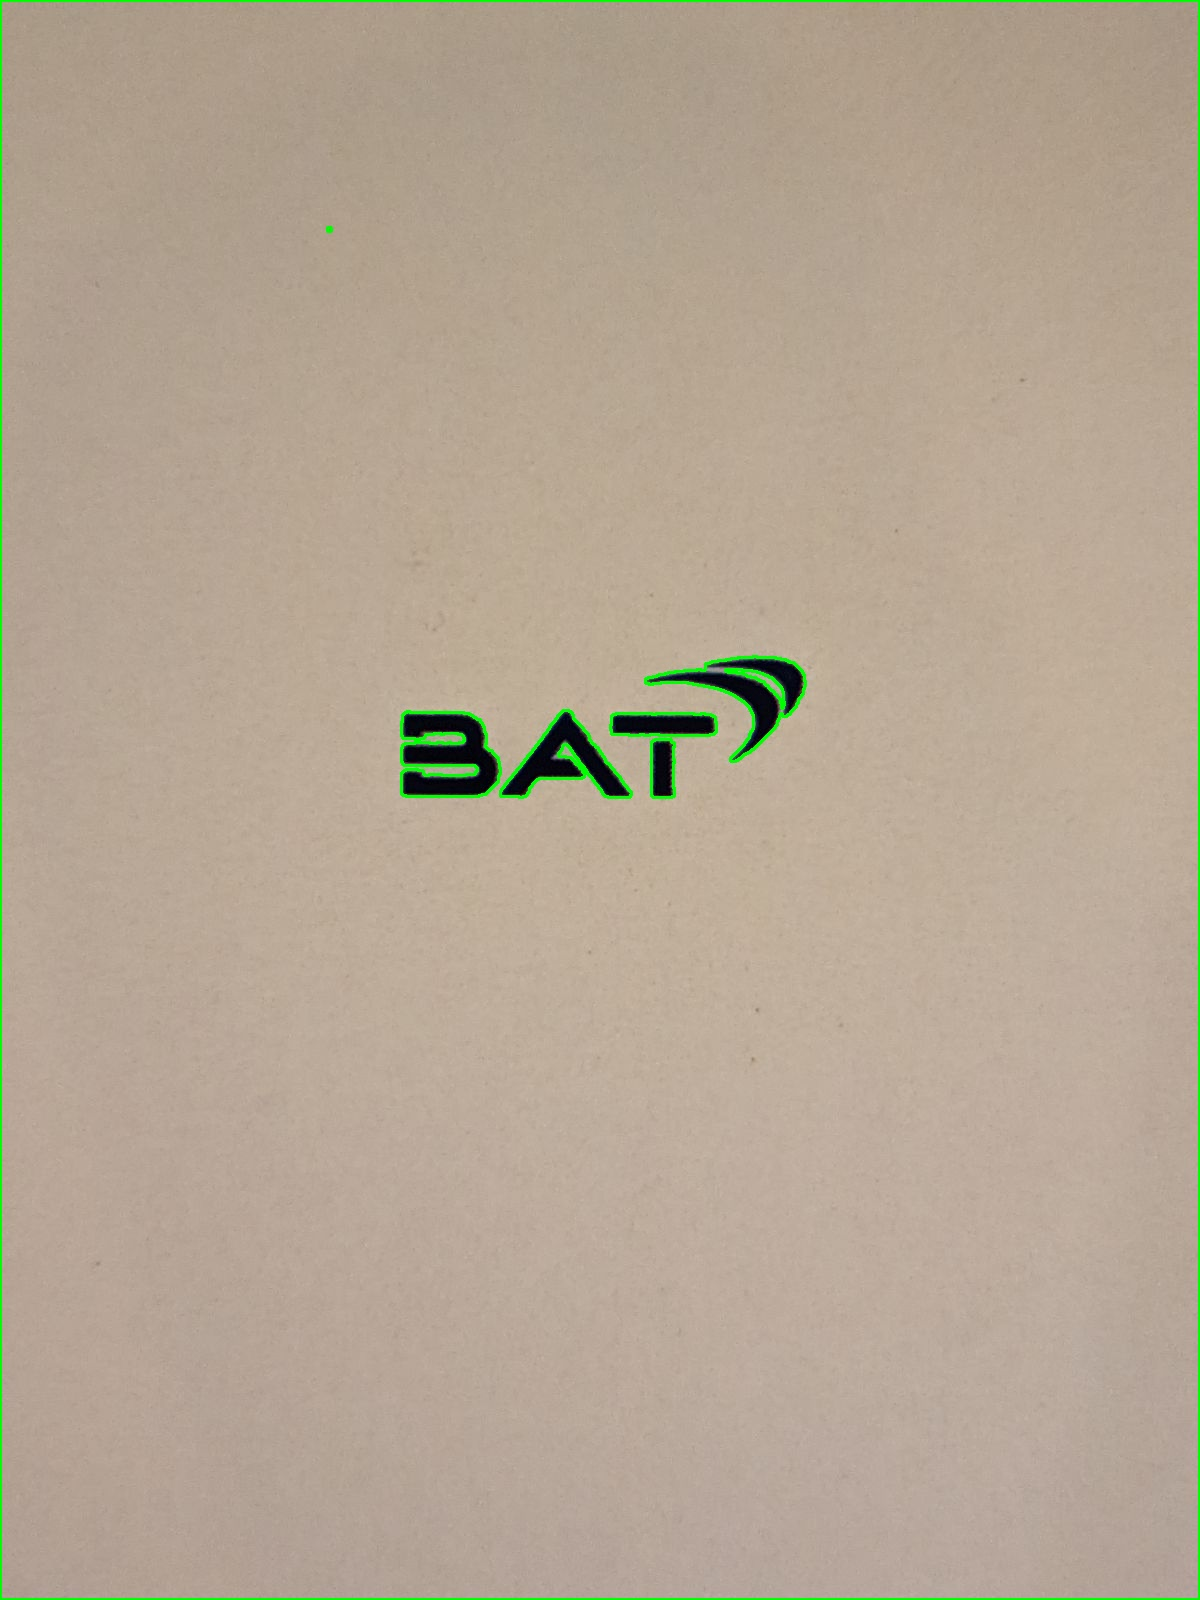
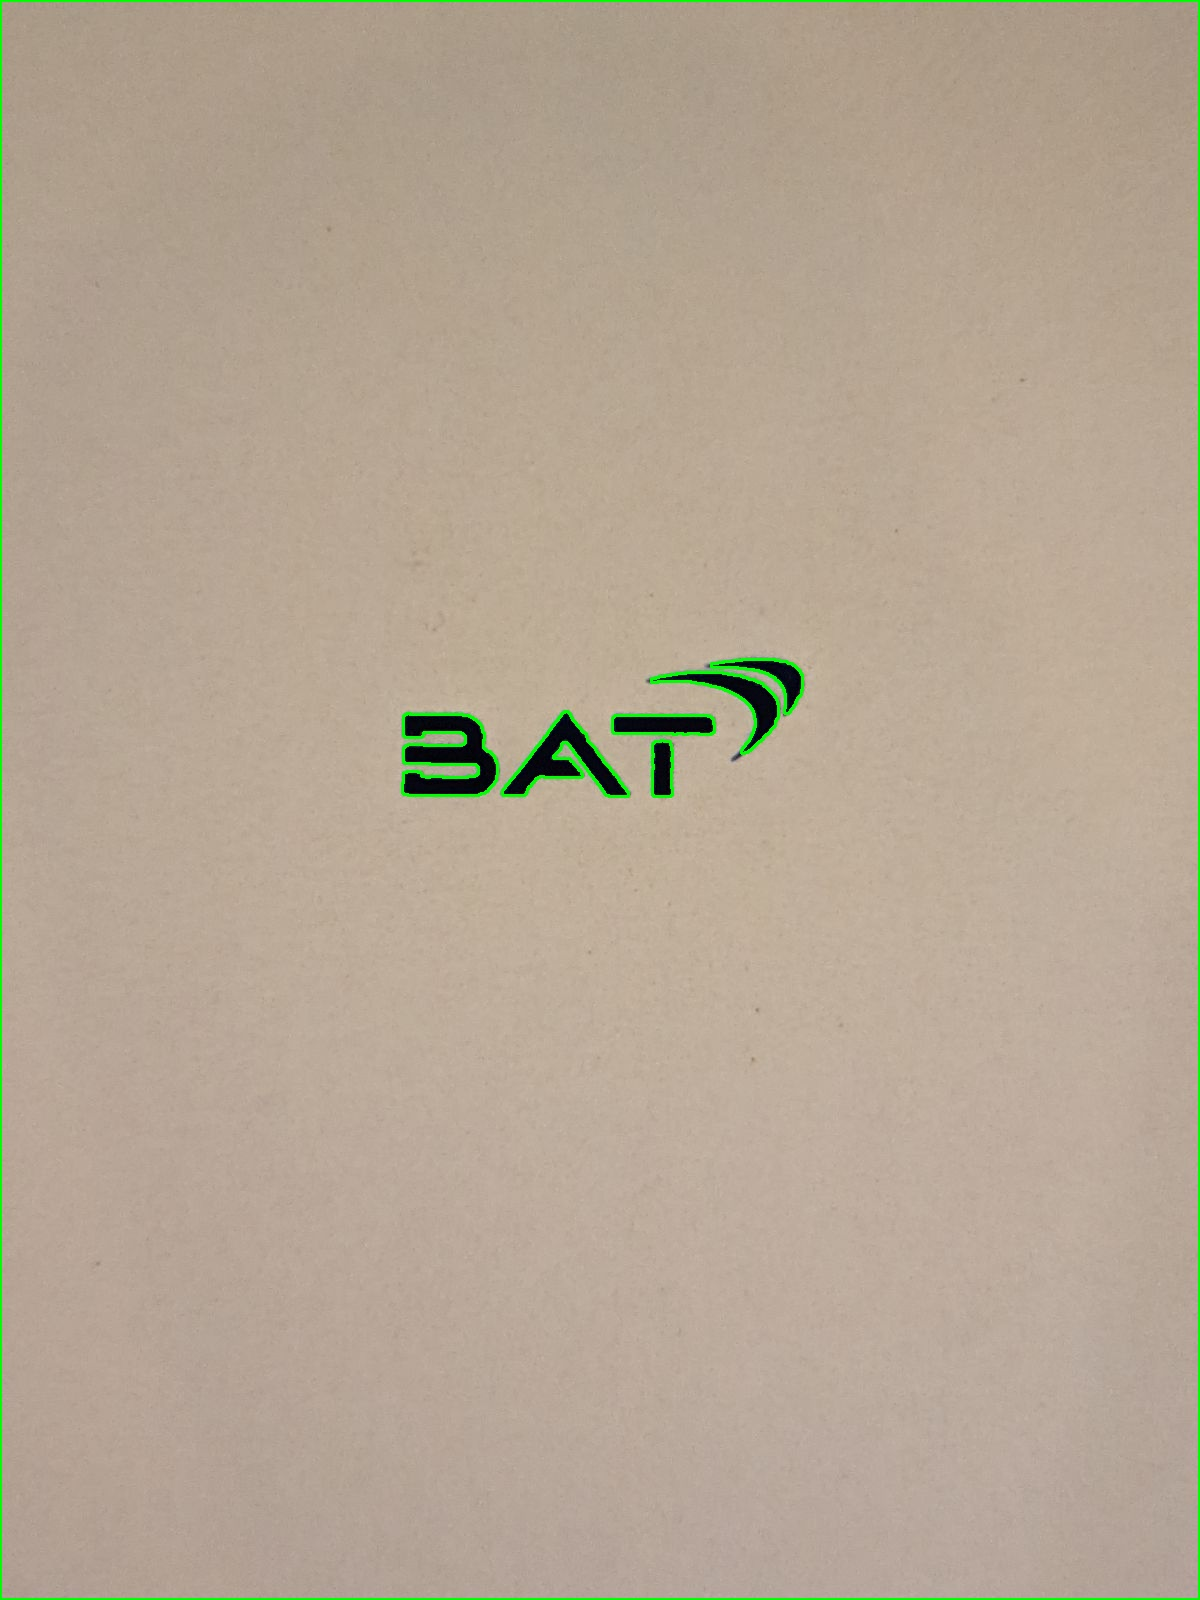
added bilateral filter

Changed region(s): [[0.3083, 0.4062, 0.6783, 0.5]]

diff --git a/utils.py b/utils.py
@@ -2,7 +2,7 @@ import cv2
 import os
 import numpy as np
 
-from src import grayscale, hsv, edges, binary, luminance, blur, contours, watermark, noise, sharpen, original,contrast
+from src import grayscale, hsv, edges, binary, luminance, blur, contours, watermark, noise, sharpen, original,contrast,adaptive_threshold,bilateral, median,sobel,morphological,histogram_equalization
 
 def process_image(path, mode="gray", threshold_value=127, low_thresh=100, high_thresh=200):
     if not os.path.exists("processed"):
@@ -23,7 +23,14 @@ def process_image(path, mode="gray", threshold_value=127, low_thresh=100, high_t
         "noise": noise.apply,
         "sharpen": sharpen.apply,
         "original": original.apply,
-        "contrast": contrast.apply
+        "contrast": contrast.apply,
+        "adaptive_threshold": adaptive_threshold.apply,
+        "bilateral": bilateral.apply,
+        "median": median.apply,
+        "sobel": sobel.apply,
+        "morphological": morphological.apply,
+        "histogram_equalization": histogram_equalization.apply
+        
     }
 
     if mode in filter_map:

diff --git a/src/morphological.py b/src/morphological.py
@@ -1,0 +1,15 @@
+#Erosion, dilation, opening, closing, etc. Useful for cleaning up binary images.
+import cv2
+import numpy as np
+
+def apply(img, low_thresh, high_thresh):
+    # Convert to grayscale and threshold
+    gray = cv2.cvtColor(img, cv2.COLOR_BGR2GRAY)
+    _, binary = cv2.threshold(gray, low_thresh, high_thresh, cv2.THRESH_BINARY)
+    # Create a kernel, size based on low_thresh (must be odd and >= 3)
+    ksize = max(3, low_thresh | 1)
+    kernel = np.ones((ksize, ksize), np.uint8)
+    # Apply morphological opening then closing
+    opened = cv2.morphologyEx(binary, cv2.MORPH_OPEN, kernel)
+    closed = cv2.morphologyEx(opened, cv2.MORPH_CLOSE, kernel)
+    return closed

diff --git a/main.py b/main.py
@@ -34,7 +34,13 @@ class ImageProcessingApp:
             ("Watermark", "watermark"),
             ("Noise", "noise"),
             ("Sharpen", "sharpen"),
-            ("Contrast", "contrast")
+            ("Contrast", "contrast"),
+            ("Adaptive Threshold", "adaptive_threshold"),
+            ("Bilateral Filter", "bilateral"),
+            ("Median Filter", "median"),
+            ("Sobel Filter", "sobel"),
+            ("Morphological Operations", "morphological"),
+            ("Histogram Equalization", "histogram_equalization")
         ]
         for text, mode in filters:
             btn = tk.Button(self.button_frame, text=text, command=lambda m=mode: self.set_mode(m))

diff --git a/src/bilateral.py b/src/bilateral.py
@@ -1,0 +1,14 @@
+import cv2
+
+def apply(img, low_thresh, high_thresh):
+    # d: Diameter of each pixel neighborhood.
+    # sigmaColor: Filter sigma in the color space.
+    # sigmaSpace: Filter sigma in the coordinate space.
+    # We'll map the sliders to sigmaColor and sigmaSpace for user control.
+    d = 9
+    sigmaColor = max(1, high_thresh)
+    sigmaSpace = max(1, low_thresh)
+    bilateral = cv2.bilateralFilter(img, d, sigmaColor, sigmaSpace)
+    gray = cv2.cvtColor(bilateral, cv2.COLOR_BGR2GRAY)
+    _, thresh_img = cv2.threshold(gray, low_thresh, high_thresh, cv2.THRESH_BINARY)
+    return thresh_img

diff --git a/src/sobel.py b/src/sobel.py
@@ -1,0 +1,13 @@
+import cv2
+import numpy as np
+
+def apply(img, low_thresh, high_thresh):
+    gray = cv2.cvtColor(img, cv2.COLOR_BGR2GRAY)
+    # Sobel edge detection in X and Y directions
+    sobelx = cv2.Sobel(gray, cv2.CV_64F, 1, 0, ksize=3)
+    sobely = cv2.Sobel(gray, cv2.CV_64F, 0, 1, ksize=3)
+    sobel = cv2.magnitude(sobelx, sobely)
+    sobel = np.uint8(np.clip(sobel, 0, 255))
+    # Apply thresholding to highlight strong edges
+    _, thresh_img = cv2.threshold(sobel, low_thresh, high_thresh, cv2.THRESH_BINARY)
+    return thresh_img

diff --git a/src/adaptive_threshold.py b/src/adaptive_threshold.py
@@ -1,0 +1,13 @@
+import cv2
+
+def apply(img, low_thresh, high_thresh):
+    gray = cv2.cvtColor(img, cv2.COLOR_BGR2GRAY)
+    # Block size must be odd and >= 3
+    block_size = max(3, low_thresh | 1)
+    # C can be positive or negative, here mapped from high_thresh (-20 to 20)
+    C = int((high_thresh / 255) * 40 - 20)
+    adaptive = cv2.adaptiveThreshold(
+        gray, 255, cv2.ADAPTIVE_THRESH_GAUSSIAN_C,
+        cv2.THRESH_BINARY, block_size, C
+    )
+    return adaptive

diff --git a/src/median.py b/src/median.py
@@ -1,0 +1,10 @@
+#Good for removing salt-and-pepper noise.
+import cv2
+
+def apply(img, low_thresh, high_thresh):
+    # Use an odd kernel size, map low_thresh to kernel size (must be odd and >= 3)
+    ksize = max(3, low_thresh | 1)  # Ensure odd and at least 3
+    median = cv2.medianBlur(img, ksize)
+    gray = cv2.cvtColor(median, cv2.COLOR_BGR2GRAY)
+    _, thresh_img = cv2.threshold(gray, low_thresh, high_thresh, cv2.THRESH_BINARY)
+    return thresh_img

diff --git a/src/histogram_equalization.py b/src/histogram_equalization.py
@@ -1,0 +1,9 @@
+import cv2
+
+def apply(img, low_thresh, high_thresh):
+    gray = cv2.cvtColor(img, cv2.COLOR_BGR2GRAY)
+    # Apply histogram equalization
+    equalized = cv2.equalizeHist(gray)
+    # Apply thresholding after equalization
+    _, thresh_img = cv2.threshold(equalized, low_thresh, high_thresh, cv2.THRESH_BINARY)
+    return thresh_img
